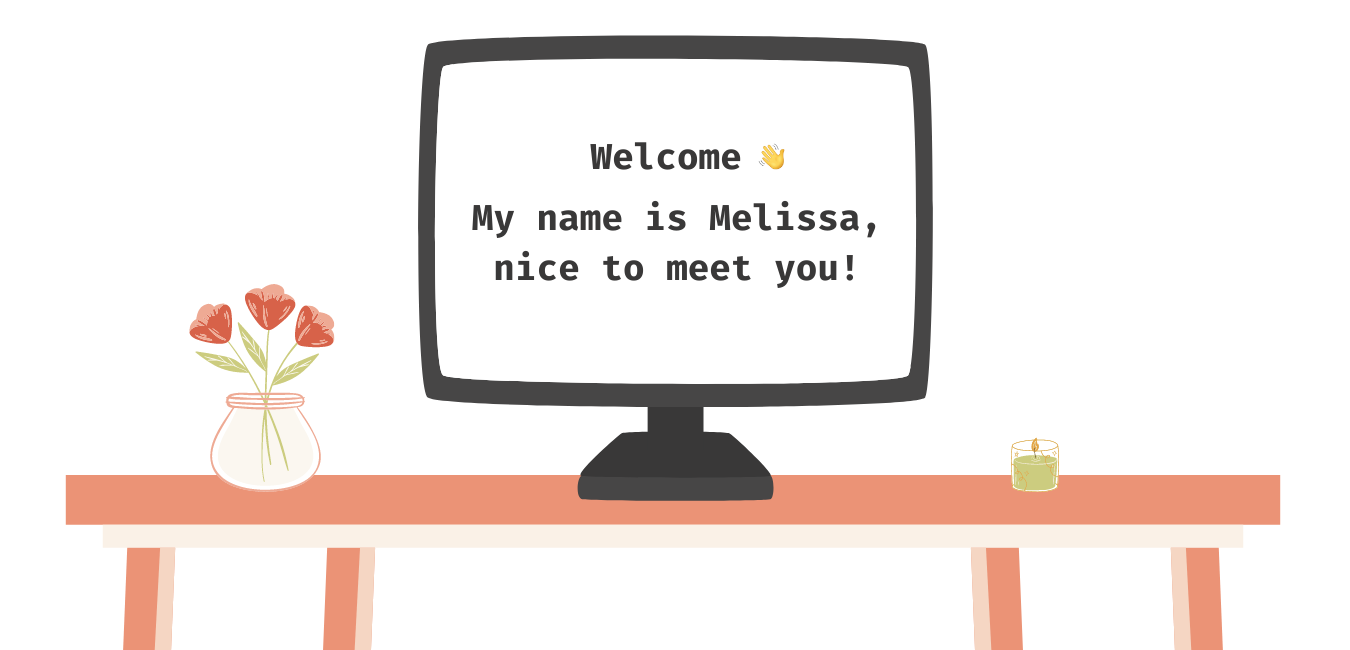
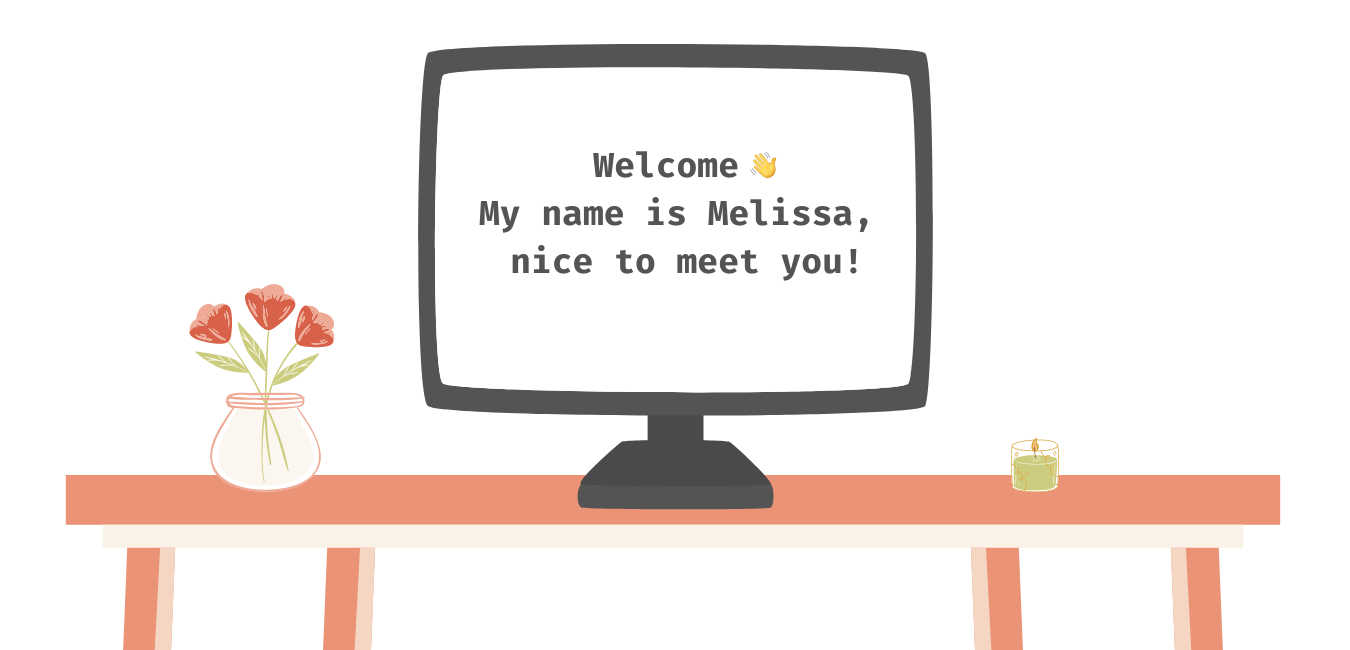
updates

diff --git a/src/index.css b/src/index.css
@@ -1,4 +1,4 @@
-@import url('https://fonts.googleapis.com/css2?family=Big+Shoulders+Display&family=Montserrat:ital,wght@0,300;1,300&display=swap');
+@import url('https://fonts.googleapis.com/css2?family=Big+Shoulders+Display&family=Fira+Code&family=Montserrat:ital,wght@0,300;1,300&display=swap');
 
 body {
   margin: 0;
@@ -19,8 +19,18 @@ code {
   overflow: hidden;
   display: block;
   position: relative;
-   padding-bottom: 80px; /* height of your footer */
+  margin: 25px;;
+  padding-bottom: 80px; /* height of your footer */
  }
+
+ a {
+  color: #d76249;
+  
+}
+
+a:hover {
+  color: #cccc7f;
+}
 
 
 .navbar {
@@ -28,12 +38,20 @@ code {
 }
 
 .navbar li {
+  display: inline-block;
   font-family: 'Big Shoulders Display', cursive;
   color: #d76249;
+  padding: 20px;
+  font-size: 35px;
+}
+
+
+.navbar li:hover {
+  font-family: 'Big Shoulders Display', cursive;
+  color: #cccc7f;
   display: inline-block; 
   padding: 20px;
-  font-size: 40px;
-  
+  font-size: 35px;
 }
 
 .homepage-container {
@@ -41,28 +59,47 @@ code {
 }
 
 .homepage {
-  padding-top: 5%;
-  height: 75%;
-  width: 75%;
+  padding-top: 10%;
+  height: 60%;
+  width: 60%;
  
 }
 
-.about {
-  font-family: 'Montserrat', sans-serif;
+.about, .connect {
+  font-family: 'Fira Code', monospace;
   color: #474646;
   text-align: center;
 }
+
+.title {
+  font-family: 'Fira Code', monospace;
+  font-size: 25px;
+  color: #474646;
+
+}
+
+.bio {
+  font-family: 'Montserrat', sans-serif;
+  font-size: 15px;
+}
+
 
 .profile-img {
   height: 15%;
   width: 15%;
   border-radius: 50%;
+  border: 3px solid #f5d6c3;
+  margin: 10px;
 }
 
 .projects {
   font-family: 'Montserrat', sans-serif;
   color: #474646;
   text-align: center;
+}
+
+.description {
+  font-style: italic;
 }
 
 .screenshots {

diff --git a/src/components/About.js b/src/components/About.js
@@ -1,13 +1,15 @@
 function About() {
     return (
         <div className='about'>
-            <h1>Hi, nice to meet you. My name is Melissa!</h1>
             <img className='profile-img' src='profile.png' alt='profile'></img>
-            <p>Full-stack software engineer with experience in Ruby on Rails and JavaScript based programming.</p>
-            <p>Passion for creativity and building memorable experiences.</p>
-            <p>Leveraging my previous involvement in working directly with consumers and understanding their needs for a product allows me to be attentive to what is important in order to meet client and business goals with an emphasis on user engagement.</p>
-            <p>Labradoodle lover, perfectionist and optimist.</p>
-            <p>Let's <a target='_blank' href='https://www.linkedin.com/in/melissa-mach/'>connect</a>!</p>
+            <h1 className='title'>Hi, nice to meet you. My name is Melissa!</h1>
+            <div className='bio'>
+                <p>Full-stack software engineer with experience in Ruby on Rails and JavaScript based programming.</p>
+                <p>Passion for creativity and building memorable experiences.</p>
+                <p>Working directly with consumers and understanding their needs for a product allows me to be attentive to what is important in order to meet client and business goals with an emphasis on user engagement.</p>
+                <p>Labradoodle lover, perfectionist and optimist.</p>
+                <h3 className='connect'>Let's <a target='_blank' href='https://www.linkedin.com/in/melissa-mach/'>connect</a>!</h3>
+            </div>
         </div>
     )
 }

diff --git a/src/components/ProjectCard.js b/src/components/ProjectCard.js
@@ -7,7 +7,7 @@ function ProjectCard({project}) {
     return (
         <div>
             <h2> {project.name} </h2>
-            <p>{project.description}</p>
+            <p className='description'>{project.description}</p>
             <p><a target='_blank' href={project.github}>GitHub</a> | <a target='_blank' href={project.video}>Demo</a></p>
             <img className='screenshots' src={project.image[0]}></img>
             <img className='screenshots' src={project.image[1]}></img>

diff --git a/src/components/Skills.js b/src/components/Skills.js
@@ -3,7 +3,7 @@ function Skills() {
     return (
         <>
         <div className='skills'>
-            <h1>Technical Skills</h1>
+            <h1 className='title'>Technical Skills</h1>
             <p>Proficient in JavaScript (ES6) | React | Ruby | Rails | PostgreSQL | Node.js | HTML5 | CSS3 | ActiveRecord | Git | Heroku </p>
             <p>Knowledgeable in Object Orientated Programming | MVC Framework | RESTful API Pattern </p>
         </div>

diff --git a/src/components/Projects.js b/src/components/Projects.js
@@ -13,7 +13,7 @@ function Project() {
     
     return (
         <div className='projects'>
-            <h1> Check out my work!</h1>
+            <h1 className='title'> Check out my work!</h1>
             {project}
         
             
